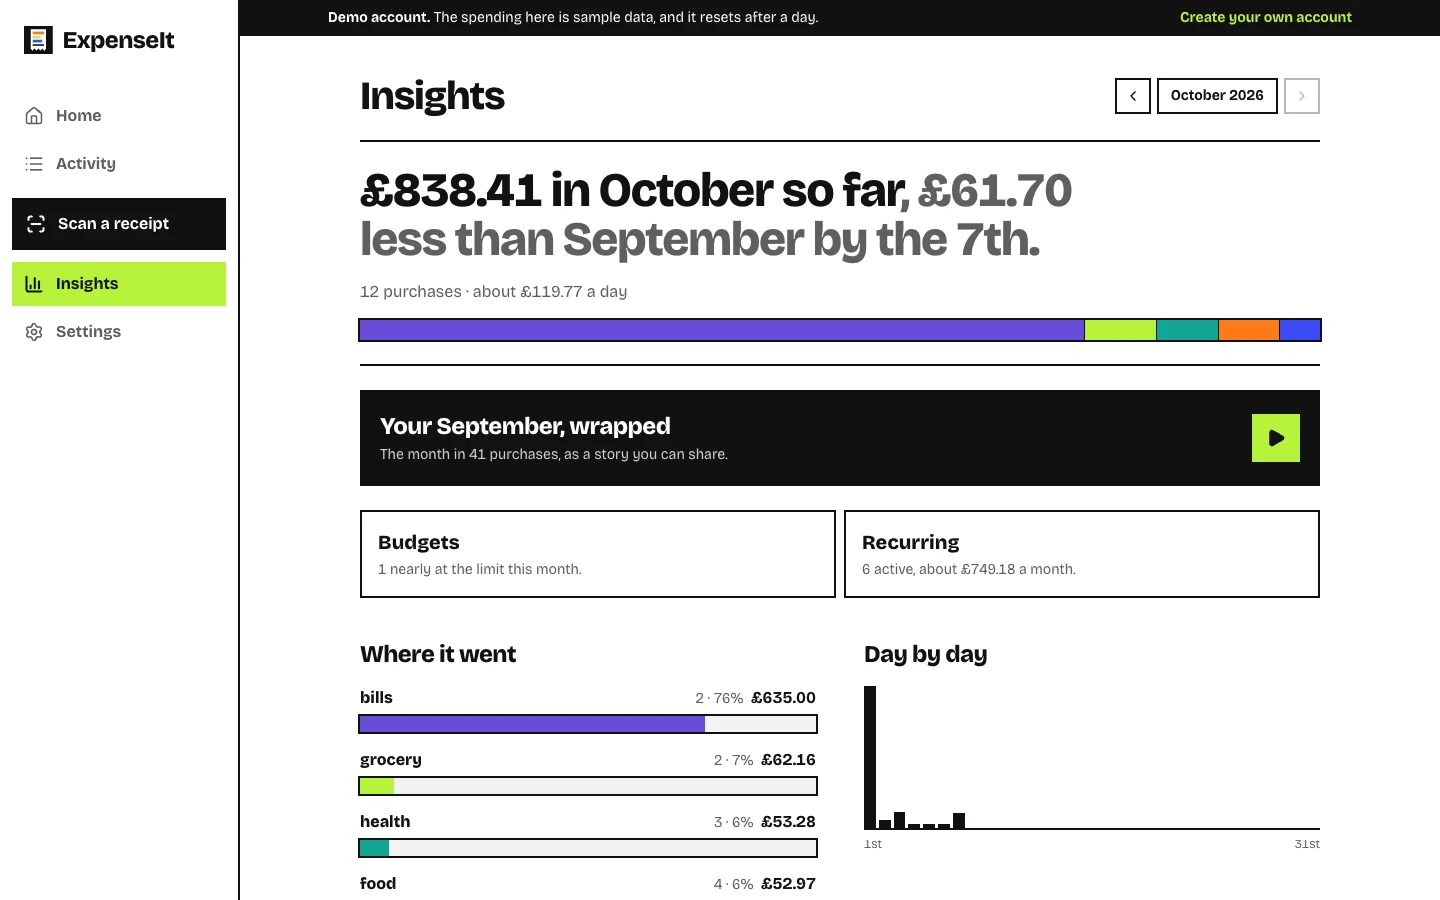
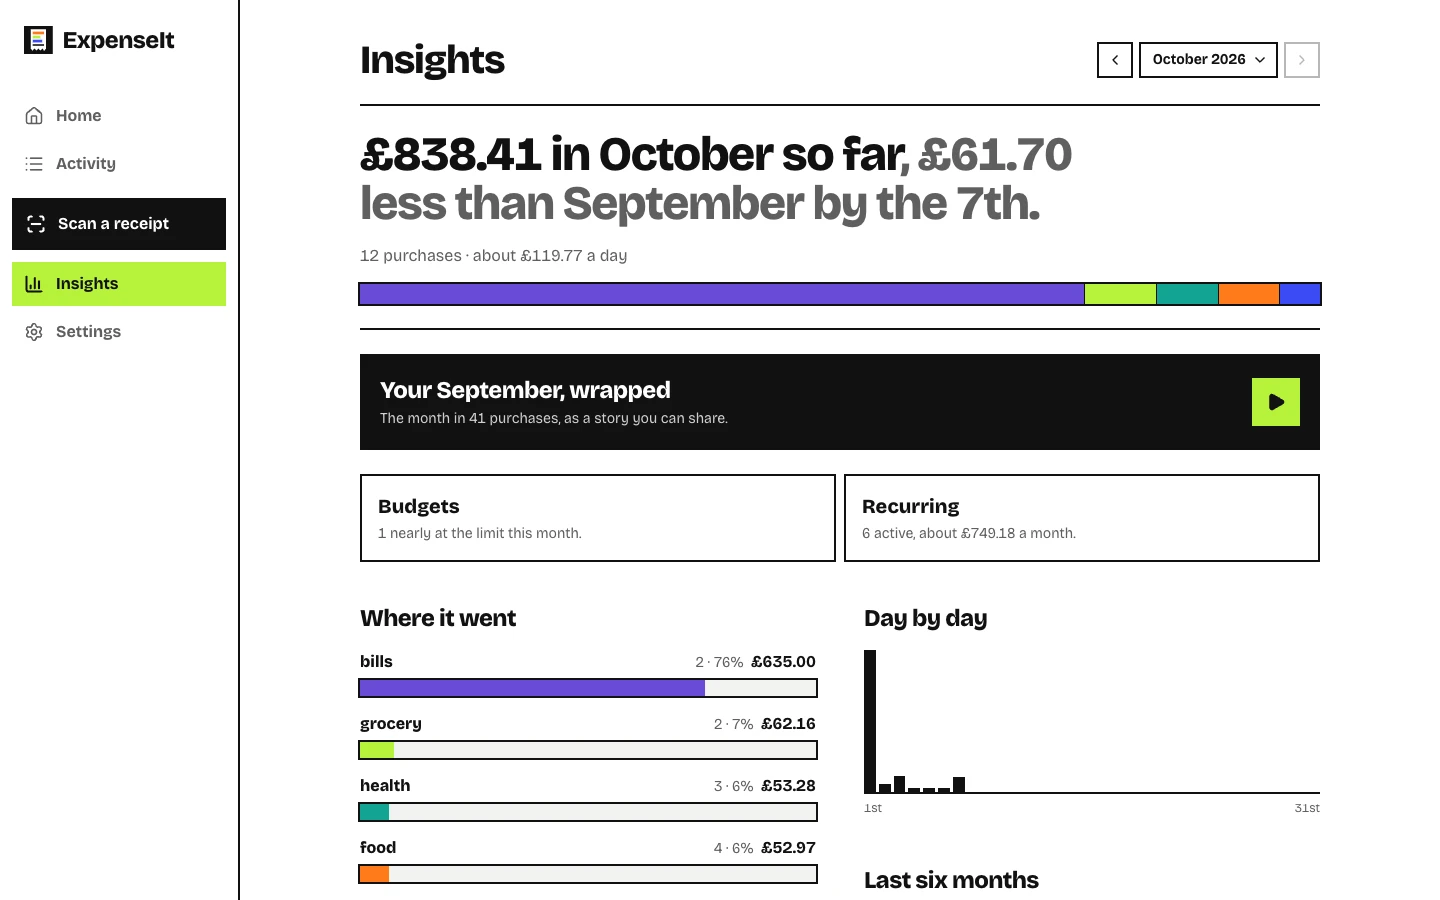
README: receipt review in the phone screenshots
Gemini is answering again, so the phone strip shows a scanned receipt
being checked instead of budgets. `HIDE_DEMO_NOTICE=1 pnpm capture`
closes the demo notice first, as a visitor would.

diff --git a/README.md b/README.md
@@ -15,7 +15,7 @@ ExpenseIt is a personal expense tracker for students and young professionals. Ph
 
 It began as my BSc final year project, a native Android app, and has been rebuilt as a web app that runs in any browser and installs on a phone like an app.
 
-![Three phone screens: the home month block, a month recap story, and monthly budgets](docs/screenshots/phones.webp)
+![Three phone screens: the home month block, checking a scanned receipt before saving, and a month recap story](docs/screenshots/phones.webp)
 
 ## Features
 
